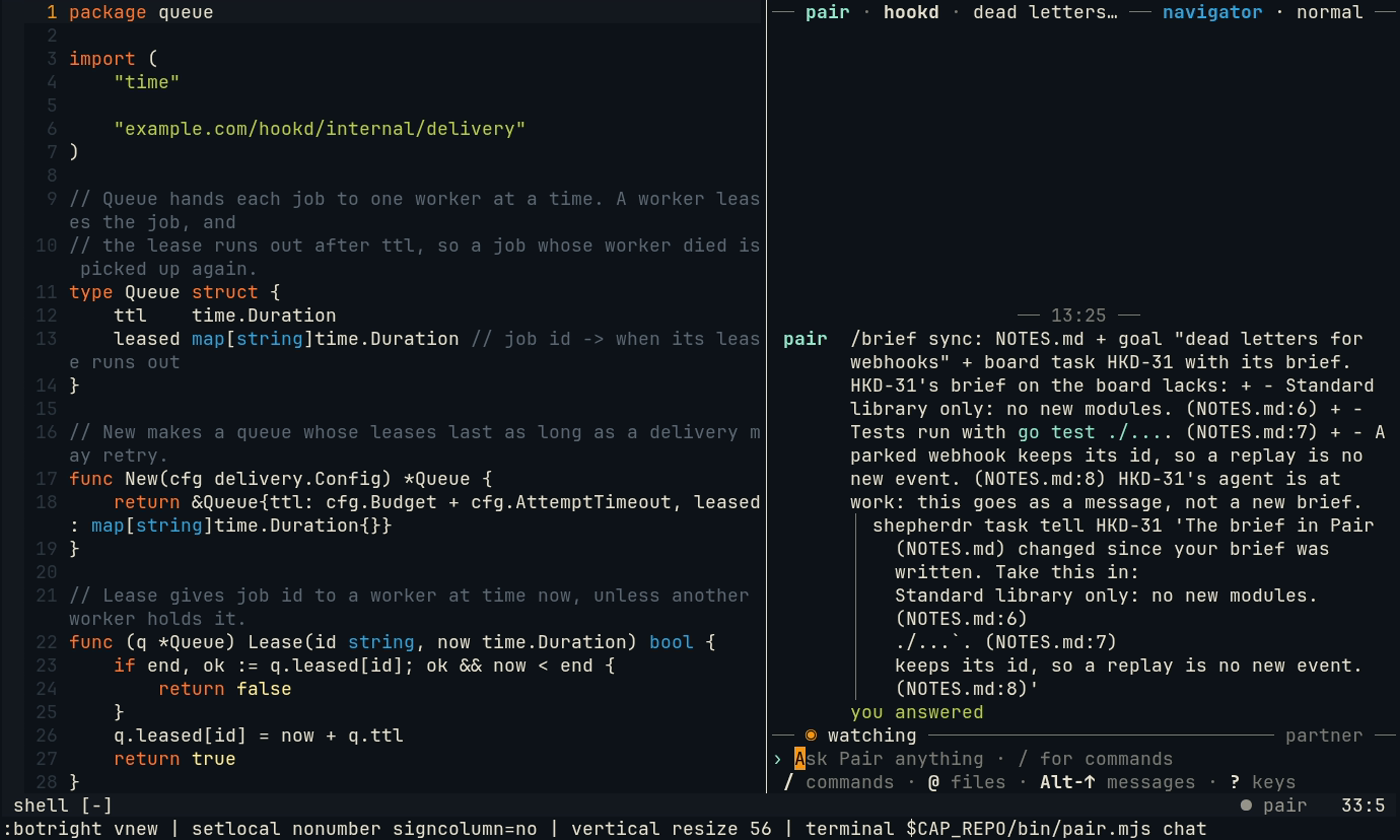
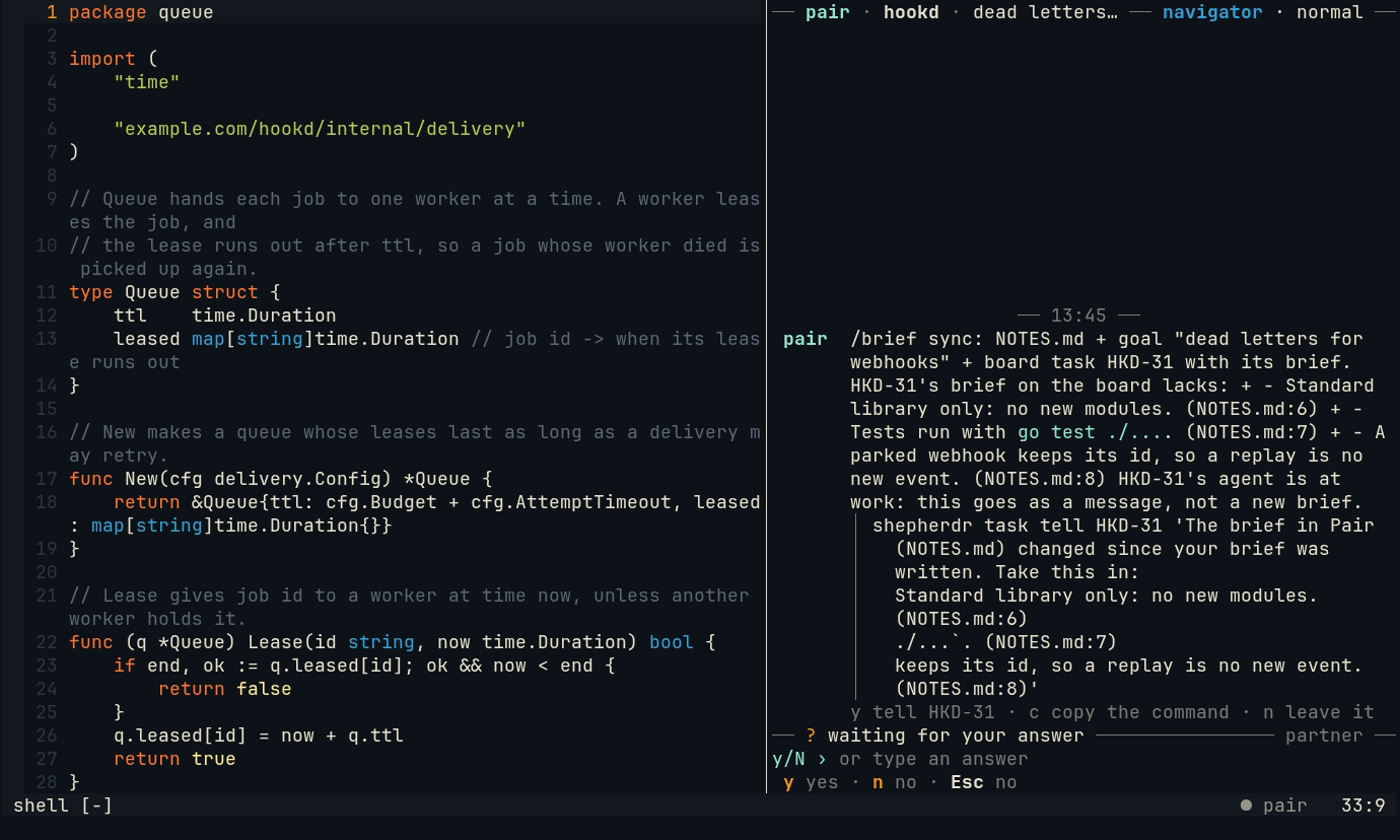
Docs: tutorials, after review: doctor's model lines, worktree goal, kept paths, cleaner stills

diff --git a/docs/tutorials/index.md b/docs/tutorials/index.md
@@ -10,19 +10,17 @@ commands as they are, and links to the full page when you want more. Start with 
 The pictures are the plugin and the daemon as shipped, in a clean Neovim with the ayu colorscheme, recorded from the
 [capture tapes](../captures/). Only the models' words are scripted.
 
-| How do I… | Tutorial | Minutes |
-| --- | --- | --- |
-| …install Pair, check it, and pair on a project? | [The first ten minutes](first-ten-minutes.md) | 10 |
-| …talk to Pair in the chat pane, and act on what it says? | [The chat pane and its keys](chat-pane.md) | 4 |
-| …let Pair run commands, or hand it the keyboard? | [Roles and handing over](roles-and-hand-over.md) | 4 |
-| …have my tests run each time I save? | [Tests on save](tests-on-save.md) | 3 |
-| …think in a note, or start from an empty folder? | [Notes and the blank page](notes-and-blank-page.md) | 5 |
-| …ask Pair for code at my cursor, or for a new file? | [Asking for code: /gen here and /gen file](gen-here-and-file.md) | 5 |
-| …try a sample before it goes in my project? | [Trying a sample: /gen try and /keep](gen-try.md) | 3 |
-| …get many files and their wiring at once? | [A scaffold: /gen scaffold](gen-scaffold.md) | 4 |
-| …hand a big job to the board, and review it back? | [The board: hand a task over, review it back](board.md) | 6 |
-| …work on two things in one repository at once? | [Several worktrees](worktrees.md) | 3 |
-| …ask Pair aloud? | [Voice](voice.md) | 5 |
+- **[The first ten minutes](first-ten-minutes.md)**, 10 minutes: how do I install Pair, check it, and pair on a project?
+- **[The chat pane and its keys](chat-pane.md)**, 4 minutes: how do I talk to Pair in the chat pane, and act on what it says?
+- **[Roles and handing over](roles-and-hand-over.md)**, 4 minutes: how do I let Pair run commands, or hand it the keyboard?
+- **[Tests on save](tests-on-save.md)**, 3 minutes: how do I have my tests run each time I save?
+- **[Notes and the blank page](notes-and-blank-page.md)**, 5 minutes: how do I think in a note, or start from an empty folder?
+- **[Asking for code: /gen here and /gen file](gen-here-and-file.md)**, 5 minutes: how do I ask Pair for code at my cursor, or for a new file?
+- **[Trying a sample: /gen try and /keep](gen-try.md)**, 3 minutes: how do I try a sample before it goes in my project?
+- **[A scaffold: /gen scaffold](gen-scaffold.md)**, 4 minutes: how do I get many files and their wiring at once?
+- **[The board: hand a task over, review it back](board.md)**, 6 minutes: how do I hand a big job to the board, and review it back?
+- **[Several worktrees](worktrees.md)**, 3 minutes: how do I work on two things in one repository at once?
+- **[Voice](voice.md)**, 5 minutes: how do I ask Pair aloud?
 
 The whole reference starts at [How it works](../how-it-works.md); every key is in the
 [Neovim plugin reference](../neovim-plugin.md#keys) and every command in [Commands](../cli.md).

diff --git a/docs/tutorials/gen-try.md b/docs/tutorials/gen-try.md
@@ -36,14 +36,14 @@ Your edits in a try are not watched: Pair makes no remarks on it.
 To bring it into the project, give it a path. In the sample's window:
 
 ```vim
-:Pair keep internal/queue/recent.go
+:Pair keep cmd/recent/main.go
 ```
 
-or `/keep internal/queue/recent.go` in the chat. It opens as a buffer to review, unsaved, exactly like a
+or `/keep cmd/recent/main.go` in the chat. It opens as a buffer to review, unsaved, exactly like a
 [`/gen file`](gen-here-and-file.md#new-files) one: `:w` in it takes it. The path must be new; `/keep` never writes
 over a file.
 
-![Kept: the sample as a buffer to review at internal/queue/recent.go, :w takes it](../images/gen-keep.png)
+![Kept: the sample as a buffer to review at cmd/recent/main.go, :w takes it](../images/gen-keep.png)
 
 If you do not keep it, do nothing: the folder stays seven days after it last changed or ran, then goes. `/gen tries`
 lists the folders still there.

diff --git a/docs/tutorials/board.md b/docs/tutorials/board.md
@@ -53,7 +53,7 @@ worktree, `r` its review.
 
 ## 4. Review it back
 
-On the line of a task ready to merge, `Alt-r`, or:
+On Pair's statusline line about a task ready to merge, `Alt-r` (`r` on it in `:Pair agents`), or:
 
 ```vim
 :Pair review HKD-31
@@ -85,7 +85,7 @@ While a task's agent works, your note may move on. On the task's branch, `/brief
 `:Pair brief sync`) says what the task's brief on the board lacks: `+` a line of your note it does not have, `-` a
 line it quotes that your note no longer has, `+ decided` a decision logged since.
 
-![/brief sync: the lines the task's brief lacks, and the message it would send its agent](../images/brief-sync.png)
+![/brief sync: the lines the task's brief lacks, the message it would send its agent, and y, c, n](../images/brief-sync.png)
 
 `y` tells its agent (`shepherdr task tell`), `c` copies the command, `n` leaves it. A task waiting for a go is told
 that this is no go.

diff --git a/README.md b/README.md
@@ -93,7 +93,8 @@ part, then `pair` in the herdr pane next to Neovim (or `:Pair chat` in Neovim), 
 [Getting started](docs/getting-started.md) walks through it, and the
 [first ten minutes](docs/tutorials/first-ten-minutes.md) tutorial does it step by step, with what `pair doctor`
 shows. Optionally add the [shell hook](docs/cli.md#pair-shell-hook) (`eval "$(pair shell-hook bash)"`, or zsh, or
-fish) to your shell's rc file: Pair then gets every command you run, with its exit code, from the shell itself, and in zsh your typing too.
+fish) to your shell's rc file: Pair then gets every command you run, with its exit code, from the shell itself, and
+in zsh your typing too.
 
 **Let your AI agent set it up.** Tell your coding agent "follow
 https://github.com/makefunstuff/pairing-buddy/blob/main/INSTALL.md": [INSTALL.md](INSTALL.md) takes it from a fresh

diff --git a/docs/tutorials/first-ten-minutes.md b/docs/tutorials/first-ten-minutes.md
@@ -52,7 +52,8 @@ the fix. Run it again after each fix.
 
 ![pair doctor: config, service, daemon, plugin, Neovim, herdr, the pane's sandbox, voice, and each model answering](../images/doctor.png)
 
-The lines you need for a first session are `config`, `daemon`, `plugin` and your models (`watcher`, `partner`).
+The lines you need for a first session are `config`, `daemon`, `plugin` and your model: one line, `models`, when
+both roles share one model as above, or `watcher` and `partner` when each has its own, as in the picture.
 `neovim` says `none connected` until a Neovim is open; `voice` is off until you set it up ([Voice](voice.md)).
 
 ## 5. Open a project

diff --git a/docs/tutorials/chat-pane.md b/docs/tutorials/chat-pane.md
@@ -13,8 +13,8 @@ is doing now.
 
 ## 2. Ask
 
-Type a question and `Enter`. `Alt-Enter` (or `Ctrl-J`) starts a new line. `↑` and `↓` on an empty line go through
-what you asked before.
+Type a question and `Enter`. `Alt-Enter` (or `Ctrl-J`) starts a new line. `↑` and `↓` move between the lines you type,
+and from the first or last one through what you asked before.
 
 - `@` lists the project's files: `@internal/queue/queue.go` names one for Pair to read; `Tab` or `Enter` inserts it.
 - `@here` sends the lines you selected last in Neovim with the question, else the line you are on.

diff --git a/docs/tutorials/gen-here-and-file.md b/docs/tutorials/gen-here-and-file.md
@@ -28,7 +28,7 @@ drafts new files as buffers you review and take with `:w`. Either way your disk 
 4. `Alt-y` takes it into your buffer, unsaved, as one undo step. `:Pair dismiss` drops it instead. On the gen card,
    `Alt-↑` then `k` takes it too.
 
-   ![Taken: the code in the buffer marked ┊ in the sign column, ✓ taken on the card, 4 generated in the statusline](../images/gen-taken.png)
+   ![Taken: the code in the buffer, unsaved, ✓ taken on the card, ┊ 4 generated in the statusline](../images/gen-taken.png)
 
 ![/gen here from Alt-g to taken](../images/gen-here.gif)
 

diff --git a/docs/tutorials/gen-scaffold.md b/docs/tutorials/gen-scaffold.md
@@ -43,7 +43,7 @@ There is no key that keeps them all: you read each one before it is yours.
 A change to your file lands on your buffer as it is now, so lines you typed since stay. `Alt-y` takes each
 suggestion:
 
-![k on queue.go: its change shown in your queue.go as a suggestion, Alt-y takes it](../images/gen-scaffold-kept.png)
+![k on queue.go: its change under line 33 of your queue.go as a suggestion, M-y takes it](../images/gen-scaffold-kept.png)
 
 From the chat, `/keep internal/health/health.go` keeps one file, and `/gen drop` deletes the copy.
 

diff --git a/docs/tutorials/worktrees.md b/docs/tutorials/worktrees.md
@@ -20,7 +20,7 @@ cd ~/src/hookd-lease && nvim
 ```
 
 The project is the git root of the folder Neovim starts in, so this is a new session: the chat's header names the
-worktree's folder, and the goal comes from its branch (or from its board task).
+worktree's folder, and the session has a goal of its own.
 
 ![A Neovim and its chat in the worktree: the header says hookd-lease](../images/worktrees.png)
 
